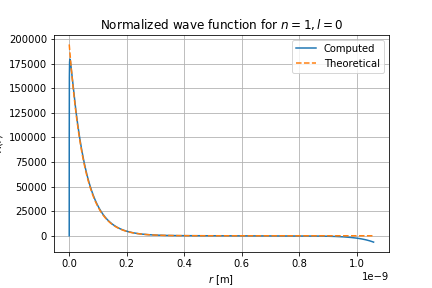
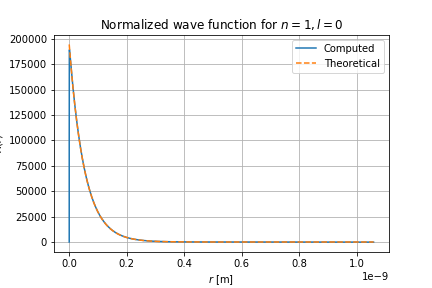
finished q2

Changed region(s): [[0.0, 0.2812, 0.9028, 0.875], [0.1505, 0.1562, 0.1806, 0.25]]

diff --git a/Lab07/tex_file/PHY407_Lab07.tex b/Lab07/tex_file/PHY407_Lab07.tex
@@ -29,11 +29,11 @@
 
 We seek to use our program to compute the energies of the ground state and the first excited state (for $l=0$ and $l=1$), and observe the effects of changing various parameters on the accuracy of the computation.
 
-The computed values of the energy for the first two excited states, along with the theoretical values, are displayed in table \ref{tab:2b_i}. These values were computed using the suggested parameter values of $h=0.002a$ and $r_\infty=20a$ (where $a$ is the Bohr radius), and we can see that the agreement with the theoretical values is quite good for $n=2, l=1$, is okay for $n=2, l=0$ and $n=1, l=0$.
+The computed values of the energy for the first two excited states, along with the theoretical values, are displayed in table \ref{tab:2b_i}. These values were computed using the suggested parameter values of $h=0.002a$, $r_\infty=20a$ (where $a$ is the Bohr radius), and a target accuracy of $e/1000$, and we can see that the agreement with the theoretical values is quite good for $n=2, l=1$, is okay for $n=2, l=0$ and $n=1, l=0$.
 
 \begin{table}[H]
 	\centering
-	\caption{Numerically calculated energy values of the ground state and first excited state of the hydrogen atom, along with the theoretical values. Program used suggested parameter values of $h=0.002a$ and $r_\infty=20a$.}
+	\caption{Numerically calculated energy values of the ground state and first excited state of the hydrogen atom, along with the theoretical values. Program used suggested parameter values of $h=0.002a$, $r_\infty=20a$, and a target accuracy of $e/1000$.}
 	\label{tab:2b_i}
 	\begin{tabular}{c|c|c|c}
 		$n$ & $l$ & Calculated $E$ (eV)  & Literature $E$ (eV) \\
@@ -44,11 +44,11 @@ The computed values of the energy for the first two excited states, along with t
 	\end{tabular}
 \end{table}
 
-In table \ref{tab:2b_ii} we display the calculated values of the energy for the first three states for three different values of $r_\infty$ with fixed step size $h=0.002a$. As can be seen from the table, increasing the value of $r_\infty$ improves the accuracy of the solution in all cases, although the extent to which it does this depends on the particular energy level and angular momentum value, and in some cases (i.e. $n=1, l=0$ the observed improvements were negligible.
+In table \ref{tab:2b_ii} we display the calculated values of the energy for the first three states for three different values of $r_\infty$ with fixed step size $h=0.002a$ and target accuracy of $e/1000$. As can be seen from the table, increasing the value of $r_\infty$ improves the accuracy of the solution in all cases, although the extent to which it does this depends on the particular energy level and angular momentum value, and in some cases (i.e. $n=1, l=0$ the observed improvements were negligible.
 
 \begin{table}[H]
 	\centering
-	\caption{Numerically calculated energy values of the ground state and first excited state of the hydrogen atom, along with the theoretical values, for different values of $r_\infty$ with $h=0.002a$.}
+	\caption{Numerically calculated energy values of the ground state and first excited state of the hydrogen atom, along with the theoretical values, for different values of $r_\infty$ with $h=0.002a$ and a target accuracy of $e/1000$.}
 	\label{tab:2b_ii}
 	\begin{tabular}{c|c|c|c|c|c}
 		$n$ & $l$ & $r_\infty=10a$ &  $r_\infty=20a$ & $r_\infty=40a$ & Literature $E$ (eV) \\
@@ -59,11 +59,11 @@ In table \ref{tab:2b_ii} we display the calculated values of the energy for the 
 	\end{tabular}
 \end{table}
 
-In table \ref{tab:2b_iii} we display the calculated values of the energy for the first three states for three different values of $h$ with fixed $r_\infty=20a$. As can be seen from the table, the accuracy of the calculations invariably increases with a smaller step size, and this improvement seems to be better than that for an increase in the value of $r_\infty$, although it is difficult to compare these two things given that the size of the variations tested is different, and itself difficult to compare. 
+In table \ref{tab:2b_iii} we display the calculated values of the energy for the first three states for three different values of $h$ with fixed $r_\infty=20a$ and target accuracy of $e/1000$. As can be seen from the table, the accuracy of the calculations invariably increases with a smaller step size, and this improvement seems to be better than that for an increase in the value of $r_\infty$, although it is difficult to compare these two things given that the size of the variations tested is different, and itself difficult to compare. 
 
 \begin{table}[H]
 	\centering
-	\caption{Numerically calculated energy values of the ground state and first excited state of the hydrogen atom, along with the theoretical values, for different values of $h$ with $r_\infty=20a$.}
+	\caption{Numerically calculated energy values of the ground state and first excited state of the hydrogen atom, along with the theoretical values, for different values of $h$ with $r_\infty=20a$ and a target accuracy of $e/1000$.}
 	\label{tab:2b_iii}
 	\begin{tabular}{c|c|c|c|c|c}
 		$n$ & $l$ & $h = 0.02a$ & $h = 0.002a$ & $h = 0.0002a$ & Literature $E$ (eV) \\
@@ -74,13 +74,30 @@ In table \ref{tab:2b_iii} we display the calculated values of the energy for the
 	\end{tabular}
 \end{table}
 
+In table \ref{tab:2b_iiii} we display the calculated values of the energy for the first three states for three different values of the target accuracy and with $h=0.002a$ and $r_\infty=20a$. As can be seen from the table, changing the target accuracy does not seem to have a very big effect on the accuracy of the calculation. This seems surprising, but makes sense if we consider that the accuracy we are specifying is simply requiring the solution to get closer to the value to which it is converging, and if it is converging to the incorrect value then changing the ``accuracy'' will not actually make it more accurate.
+
+\begin{table}[H]
+	\centering
+	\caption{Numerically calculated energy values of the ground state and first excited state of the hydrogen atom, along with the theoretical values, for different target accuracies with $h=0.002a$ and $r_\infty=20a$.}
+	\label{tab:2b_iiii}
+	\begin{tabular}{c|c|c|c|c|c}
+		$n$ & $l$ & target$=e/100$ & target$=e/1000$ & target$=e/10000$ & Literature $E$ (eV) \\
+		\hline
+		1 & 0 & -13.5009218107 & -13.5004889875 & -13.5004919696 & -13.605693009 \\
+		2 & 0 & -3.38784656151 & -3.38786638765 & -3.38786638765 & -3.40142325225 \\
+		2 & 1 & -3.40120743963 & -3.40127648895 & -3.40127648895 & -3.40142325225 \\
+	\end{tabular}
+\end{table}
+
 \subsection{Part d)}
 
 We seek to produce plots of the normalized computed wavefunctions $R(r)$ for each of the energy levels from the previous section, and compare the graphs of the functions to those of the theoretical solutions to the differential equation.
 
-Plots of the eigenfunctions for all three sets of $n$ and $l$ values are shown in figures \ref{fig:q2_d_n=1_l=0}-\ref{fig:q2_d_n=2_l=1}. In all figures, both the computed and theoretical wavefunctions have been normalized. As can be seen from the figures, the overall agreement between the computed and theoretical functions on the breadth of the domain is very good; the only regions where there are some discernible discrepancies are near the endpoints.
+Plots of the eigenfunctions for all three sets of $n$ and $l$ values are shown in figures \ref{fig:q2_d_n=1_l=0}-\ref{fig:q2_d_n=2_l=1}. In light of the discussion in part b), we used parameter values of $h=0.0002a$, $r_\infty=20a$, and target accuracy of  $e/1000$ to compute the wavefunctions. In all figures, both the computed and theoretical wavefunctions have been normalized. As can be seen from the figures, the overall agreement between the computed and theoretical functions on the breadth of the domain is very good; the only discernible discrepancies occur at the endpoint $r=0$.
 
-In the case of both $n=1, l=0$ and $n=2, l=0$, we see that the theoretical wavefunction increases to infinity at r=0. However, we required the boundary condition 
+In the case of both $n=1, l=0$ (figure \ref{fig:q2_d_n=1_l=0}) and $n=2, l=0$ (figure \ref{fig:q2_d_n=2_l=0}), we see that the theoretical wavefunction increases to infinity at r=0. However, we required the boundary condition that $R(0) = 0$ in the numerical solution, so the numerical solution satisfies this condition and then quickly jumps up to match the theoretical value and follows it pretty much exactly over the rest of the domain, with no visible discrepancies. Thus, ignoring this one predictable error of the numerical method, the shape and zero crossings of the numerically computed wave functions, for the tested energy levels, agree very well with those of the theoretical/analytically determined wave functions.
+
+Note that in the case of $n=2, l=1$, displayed in figure \ref{fig:q2_d_n=2_l=1}, the wavefunction does actually satisfy our imposed boundary condition of $R(0) = 0$, and we see that the computed and analytic wavefunctions agree very well over the whole domain, as we would expect them to.
 
 \begin{figure}[H]
 	\centering

diff --git a/Lab07/code/Lab07_Q2.py b/Lab07/code/Lab07_Q2.py
@@ -4,6 +4,11 @@
 Created on Wed Oct 24 10:03:24 2018
 
 @author: Hayden
+
+Program which uses the shooting and RK4 methods to find the energy eigenvalue
+and corresponding eigenfunction for the radial part of the Schrodinger
+equation with the specified values of n and l, and plots these eigenfunctions 
+along with their analytic counterparts on the same plot
 """
 
 #import modules
@@ -51,7 +56,7 @@ n = 2
 l = 1
 
 #set step size and max r
-h = 0.002*a
+h = 0.0002*a
 r_inf = 20*a
 
 #define array of points r
@@ -98,6 +103,9 @@ while abs(E1-E2) > target:
     R1, R2 = R2, wave(E2)[-1,0]
     E1, E2 = E2, E2-R2*(E2-E1)/(R2-R1)
     
+print('Calculated: ',E2/e)
+print('Theory: ',-E0/n**2)
+
 #compute the wave function for the calculated energy
 psi = wave(E2)[:,0]
 
@@ -112,7 +120,7 @@ psi_theory = R_theory(r, n, l)
 norm_theory = simpsons(r,abs(psi_theory)**2)
 psi_theory_normal = psi_theory/np.sqrt(norm_theory)
 
-#plot
+#plot normalized wavefunctions (calculated and theoretical)
 plt.figure(0)
 plt.plot(r, psi_normal, label='Computed')
 plt.plot(r, psi_theory_normal, '--', label='Theoretical')
